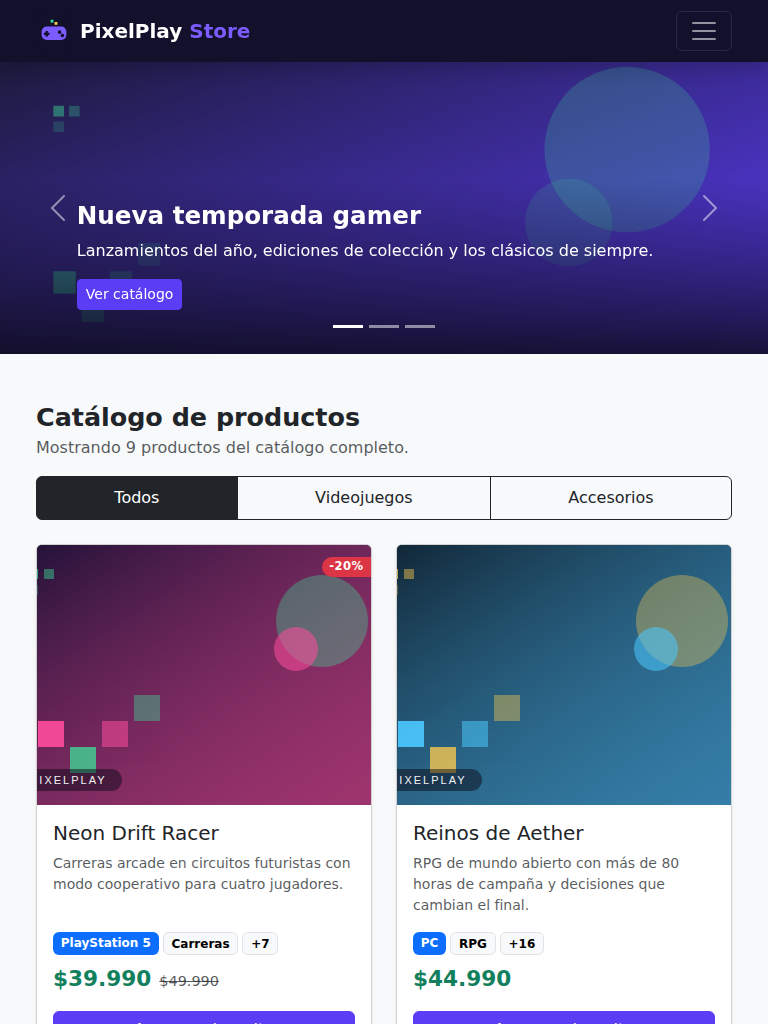
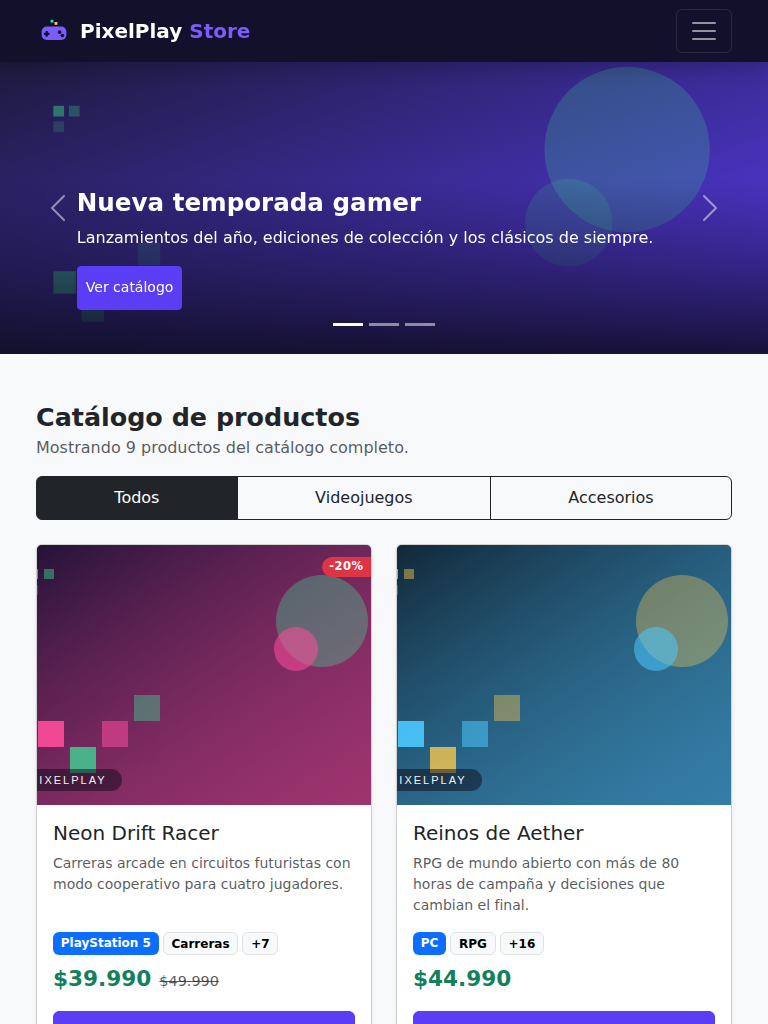
Auditoria final: objetivos tactiles de 44 px y documentacion ajustada
La revision contra la pauta detecto que la regla de accesibilidad solo cubria
la navegacion y el carrito, y no los botones principales: "Agregar al carrito"
e "Ir a pagar" median 38 px y "Vaciar carrito" 31 px, por debajo del minimo
de 44 px que el README ya afirmaba cumplir.

- estilos.css: min-height de 44 px en todos los botones, enlaces del pie,
  hamburguesa y enlace de salto; indicadores del carrusel de 23 a 27 px.
- El caption del carrusel se solapaba con los indicadores ampliados y les
  robaba el clic: ahora deja pasar el puntero salvo en sus propios enlaces.
- README: se corrige la afirmacion sobre objetivos tactiles y se documentan
  los siete escenarios de error verificados (antes se declaraban cinco).
- Capturas regeneradas con los controles ya corregidos.

Changed region(s): [[0.0938, 0.1875, 0.8438, 0.3125], [0.5312, 0.3125, 0.5625, 0.3438], [0.4375, 0.3125, 0.4688, 0.3438]]

diff --git a/exp2-semana6/assets/css/estilos.css b/exp2-semana6/assets/css/estilos.css
@@ -65,22 +65,46 @@ body {
 
 /* ============ 02. ACCESIBILIDAD ============ */
 
-/* Objetivo táctil mínimo de 44 px en los controles principales */
+/* Objetivo táctil mínimo de 44 px (WCAG 2.5.8) en todos los controles
+   accionables: Bootstrap deja los botones en 38 px y los .btn-sm en 31 px */
 .navbar .nav-link,
+.navbar-toggler,
+.btn,
 .btn-group .btn,
-#detalleCarrito .btn {
+#detalleCarrito .btn,
+.site-footer .nav-link,
+footer .nav-link {
   min-height: 44px;
   display: inline-flex;
   align-items: center;
 }
 
-.navbar .nav-link {
+.navbar .nav-link,
+footer .nav-link {
   justify-content: flex-start;
 }
 
+.btn,
 .btn-group .btn,
-#detalleCarrito .btn {
+#detalleCarrito .btn,
+.navbar-toggler {
   justify-content: center;
+}
+
+/* Bootstrap deja los indicadores del carrusel en 23 px de alto (3 px de barra
+   mas 10 px de borde transparente a cada lado), justo bajo el minimo de 24 px.
+   Se ensancha el borde transparente: el area sensible crece y la barra
+   visible no cambia */
+.carousel-indicators [data-bs-target] {
+  border-top-width: 12px;
+  border-bottom-width: 12px;
+}
+
+/* El boton de cierre de los toasts tambien debe ser alcanzable con el pulgar */
+.toast .btn-close {
+  width: 44px;
+  height: 44px;
+  background-size: .75em;
 }
 
 /* Foco siempre visible al navegar con teclado */
@@ -94,6 +118,9 @@ input:focus-visible {
 .skip-link {
   position: absolute;
   z-index: 1080;
+  display: inline-flex;
+  align-items: center;
+  min-height: 44px;
   padding: .5rem 1rem;
   background-color: var(--pp-oscuro);
   color: #fff;
@@ -121,6 +148,18 @@ input:focus-visible {
   right: 10%;
   left: 10%;
   bottom: 1.5rem;
+  /* El bloque de texto se solapa con la franja de indicadores: se deja pasar
+     el clic salvo en sus propios enlaces y botones */
+  pointer-events: none;
+}
+
+.carousel-caption a,
+.carousel-caption button {
+  pointer-events: auto;
+}
+
+.carousel-indicators {
+  z-index: 3;
 }
 
 .carousel-caption h2 {

diff --git a/exp2-semana6/README.md b/exp2-semana6/README.md
@@ -53,7 +53,7 @@ exp2-semana6/
 | 3. Manipulación del DOM (15 pts) | Las tarjetas y las líneas del carrito se generan por completo desde JavaScript; el resumen, el contador y los totales se reescriben en cada cambio | `assets/js/catalogo.js` · `assets/js/carrito.js` |
 | 4. Gestión de eventos (15 pts) | `click` para agregar, sumar, quitar, eliminar y filtrar; `submit` para el buscador con validación. Delegación de eventos en los contenedores | `assets/js/catalogo.js` · `assets/js/carrito.js` |
 | 5. Fetch API (10 pts) | `fetch()` sobre `assets/data/productos.json` con `AbortController`, verificación de `response.ok` y validación de los registros recibidos | `assets/js/datos.js` |
-| 6. Validaciones y gestión de errores (10 pts) | Cinco escenarios cubiertos con mensaje amigable, botón de reintento y catálogo de respaldo | `assets/js/datos.js` · `assets/js/app.js` |
+| 6. Validaciones y gestión de errores (10 pts) | Siete escenarios cubiertos con mensaje amigable, botón de reintento y catálogo de respaldo | `assets/js/datos.js` · `assets/js/app.js` |
 | 7. Organización del código (10 pts) | Cinco módulos con una responsabilidad cada uno, patrón IIFE con API pública y comentarios en cada función | `assets/js/` |
 | 8. Publicación en GitHub (10 pts) | Repositorio documentado con capturas y despliegue en `gh-pages` | Este README |
 
@@ -81,14 +81,17 @@ return fetch(RUTA_JSON, { cache: 'no-store', signal: controlador.signal })
 
 | Escenario | Mensaje mostrado al usuario |
 |---|---|
-| Respuesta HTTP distinta de 200 | «El servidor respondió con el estado HTTP 404 Not Found» |
+| Respuesta 404 o 500 | «El servidor respondió con el estado HTTP 404 Not Found» |
+| JSON malformado | «No pudimos cargar el catálogo» |
 | JSON sin productos | «El catálogo llegó vacío» |
 | Registros sin los campos mínimos | «Los datos del catálogo no tienen el formato esperado» |
 | Sin respuesta en 8 segundos | «La carga del catálogo tardó demasiado» |
+| Conexión caída | «Ocurrió un problema al conectarse con el servidor» |
 | Página abierta con `file://` | Explica que el navegador bloquea `fetch` en archivos locales e indica cómo levantar un servidor |
 
-En todos los casos se ofrecen dos salidas: **Reintentar** y **Ver catálogo de demostración**
-(datos de respaldo embebidos, claramente rotulados como tales).
+En los siete casos se ofrecen dos salidas: **Reintentar** y **Ver catálogo de demostración**
+(datos de respaldo embebidos, claramente rotulados como tales). El reintento vuelve a pedir
+el JSON y limpia el aviso de error si la segunda petición sí responde.
 
 ### Eventos implementados
 
@@ -147,7 +150,10 @@ También funciona directamente en la URL publicada en GitHub Pages.
 | Desbordamiento horizontal | 320 a 1920 px en los tres motores, sin scroll lateral |
 | Flujo del carrito | Agregar, sumar, quitar, eliminar y vaciar, con totales verificados |
 | Buscador | Con resultados, sin resultados y con validación de término corto |
-| Rutas de error de Fetch | 404, JSON vacío, datos inválidos y red caída |
+| Rutas de error de Fetch | 404, 500, JSON malformado, vacío, datos inválidos, red caída y tiempo agotado |
+| Reintento tras fallo | La segunda petición carga el catálogo y retira el aviso |
+| Objetivos táctiles | Ningún control accionable bajo 44 px en móvil |
+| Tope de stock | «Última Órbita» (stock 6) no supera las 6 unidades en el carrito |
 
 ---
 
@@ -156,7 +162,10 @@ También funciona directamente en la URL publicada en GitHub Pages.
 - Enlace «Saltar al contenido principal» y foco visible en todos los controles.
 - `aria-label` en la navegación, los botones del carrito y el carrusel.
 - Regiones `aria-live` en el contador, el resumen del carrito y la zona de avisos.
-- Objetivo táctil mínimo de 44 px en navegación, filtros y controles del carrito.
+- Objetivo táctil mínimo de 44 px (WCAG 2.5.8) en todos los botones, enlaces de
+  navegación y pie, campos del formulario y controles del carrito. Los indicadores
+  del carrusel se ampliaron de 23 a 27 px. Quedan fuera los enlaces de teléfono y
+  correo, que van en línea dentro de un párrafo y el criterio exceptúa.
 - Imágenes decorativas con `alt` vacío; las informativas, con texto descriptivo.
 - Soporte de `prefers-reduced-motion`.
 
